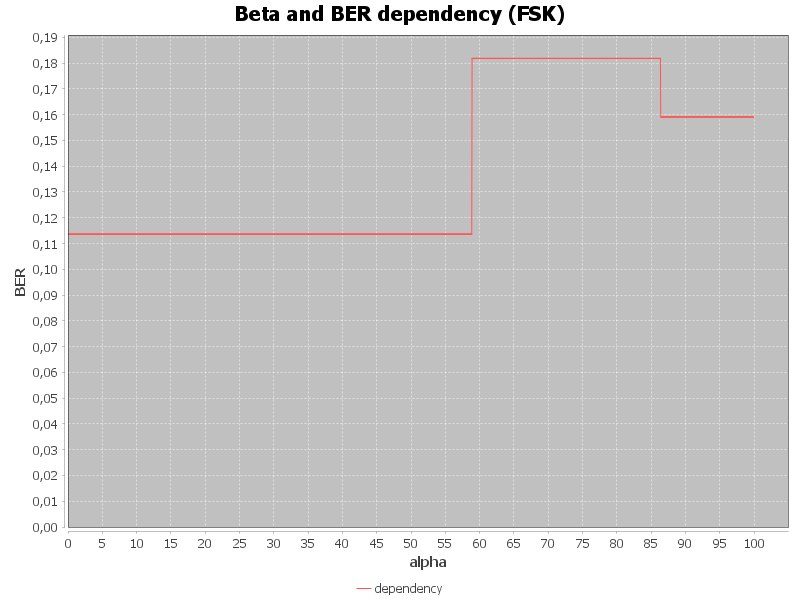
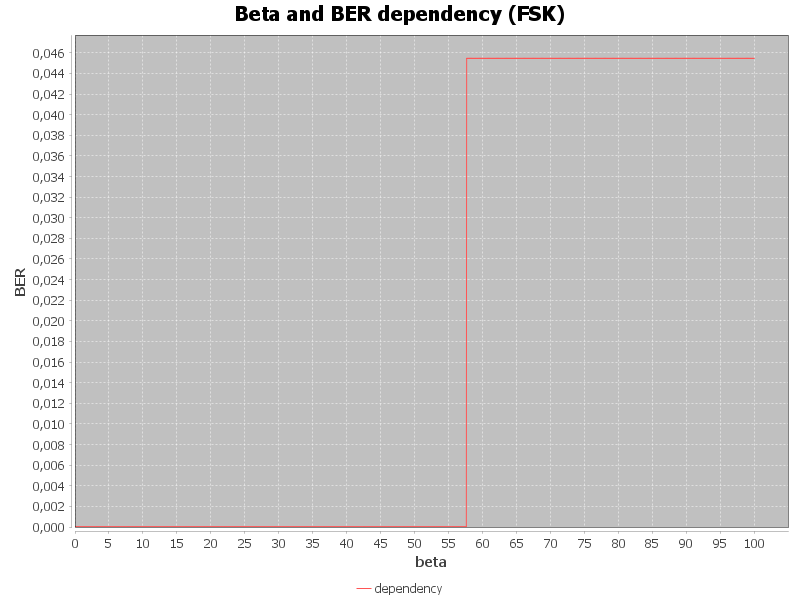
Begin exercise 4

diff --git a/src/main/java/org/example/Main.java b/src/main/java/org/example/Main.java
@@ -14,9 +14,9 @@ public class Main
     public static void main(String[] args)
     {
 //        zadanie1();
-        zadanie2();
-        zadanie3();
-//        zadanie4();
+//        zadanie2();
+//        zadanie3();
+        zadanie4();
     }
 
     public static void zadanie1()
@@ -73,9 +73,9 @@ public class Main
             }
         }
 
-        PlotDrawer.compareDoubles(alpha, BER[0], alpha.length, "Alpha and BER dependency (ASK)", "alpha_ASK");
-        PlotDrawer.compareDoubles(alpha, BER[1], alpha.length, "Alpha and BER dependency (PSK)", "alpha_PSK");
-        PlotDrawer.compareDoubles(alpha, BER[2], alpha.length, "Alpha and BER dependency (FSK)", "alpha_FSK");
+        PlotDrawer.compareDoubles(alpha, BER[0], alpha.length, "alpha", "Alpha and BER dependency (ASK)", "alpha_ASK");
+        PlotDrawer.compareDoubles(alpha, BER[1], alpha.length, "alpha", "Alpha and BER dependency (PSK)", "alpha_PSK");
+        PlotDrawer.compareDoubles(alpha, BER[2], alpha.length, "alpha", "Alpha and BER dependency (FSK)", "alpha_FSK");
     }
 
     public static void zadanie3()
@@ -93,7 +93,7 @@ public class Main
 
         double[][] BER = new double[3][beta.length];
         double[][] modulations = new double[3][];
-        double[][] noisedModulations = new double[3][];
+        double[][] dampedModulations = new double[3][];
         int[][] demodulations = new int[3][];
         int[][] decodedData = new int[3][];
 
@@ -104,20 +104,76 @@ public class Main
             for (int j = 0; j < 3; j++)
             {
                 modulations[j] = TransmissionSystem.modulate(encodedBits, modulationTypes[j]);
-                noisedModulations[j] = TransmissionSystem.addDampToSignal(modulations[j], noise);
-                demodulations[j] = TransmissionSystem.demodulate(noisedModulations[j], modulationTypes[j]);
+                dampedModulations[j] = TransmissionSystem.addDampToSignal(modulations[j], noise);
+                demodulations[j] = TransmissionSystem.demodulate(dampedModulations[j], modulationTypes[j]);
                 decodedData[j] = TransmissionSystem.decode(demodulations[j]);
                 BER[j][i] = TransmissionSystem.compareBitVectors(bits, decodedData[j]);
             }
         }
 
-        PlotDrawer.compareDoubles(beta, BER[0], beta.length, "Beta and BER dependency (ASK)", "beta_ASK");
-        PlotDrawer.compareDoubles(beta, BER[1], beta.length, "Beta and BER dependency (PSK)", "beta_PSK");
-        PlotDrawer.compareDoubles(beta, BER[2], beta.length, "Beta and BER dependency (FSK)", "beta_FSK");
+        PlotDrawer.compareDoubles(beta, BER[0], beta.length, "beta", "Beta and BER dependency (ASK)", "beta_ASK");
+        PlotDrawer.compareDoubles(beta, BER[1], beta.length, "beta", "Beta and BER dependency (PSK)", "beta_PSK");
+        PlotDrawer.compareDoubles(beta, BER[2], beta.length, "beta", "Beta and BER dependency (FSK)", "beta_FSK");
     }
 
     public static void zadanie4()
     {
+        int[] encodedBits = TransmissionSystem.encode(bits);
+
+        final String[] modulationTypes = {"ASK", "PSK", "FSK"};
+
+        double alphaStep = 0.01;
+        double[] alpha = new double[(int) Math.floor(1 / alphaStep)];
+        alpha[0] = 0;
+        for (int i = 1; i < alpha.length; i++)
+            alpha[i] = alpha[i - 1] + alphaStep;
+
+        double betaStep = 1;
+        int maxValue = 100;
+        double[] beta = new double[(int) Math.floor(maxValue / betaStep)];
+        beta[0] = 0;
+        for (int i = 1; i < beta.length; i++)
+            beta[i] = beta[i - 1] + betaStep;
+
+        double[][] BER_I_II = new double[3][alpha.length];
+        double[][] BER_II_I = new double[3][alpha.length];
+        double[][] modulations = new double[3][];
+        double[][] noisedModulations = new double[3][];
+        double[][] dampedModulations = new double[3][];
+        int[][] demodulations = new int[3][];
+        int[][] decodedData = new int[3][];
+
+        int modulationLength = (TransmissionSystem.modulate(bits, "ASK")).length;
+
+        for (int i = 0; i < alpha.length; i++)
+        {
+            double[] noise = TransmissionSystem.generateDamping(modulationLength, alpha[i]);
+            double[] damp = TransmissionSystem.generateDamping(modulationLength, beta[i]);
+            for (int j = 0; j < 3; j++)
+            {
+                modulations[j] = TransmissionSystem.modulate(encodedBits, modulationTypes[j]);
+                noisedModulations[j] = TransmissionSystem.addNoiseToSignal(modulations[j], noise);
+                dampedModulations[j] = TransmissionSystem.addDampToSignal(noisedModulations[j], damp);
+                demodulations[j] = TransmissionSystem.demodulate(dampedModulations[j], modulationTypes[j]);
+                decodedData[j] = TransmissionSystem.decode(demodulations[j]);
+                BER_I_II[j][i] = TransmissionSystem.compareBitVectors(bits, decodedData[j]);
+            }
+        }
+
+        for (int i = 0; i < alpha.length; i++)
+        {
+            double[] noise = TransmissionSystem.generateDamping(modulationLength, alpha[i]);
+            double[] damp = TransmissionSystem.generateDamping(modulationLength, beta[i]);
+            for (int j = 0; j < 3; j++)
+            {
+                modulations[j] = TransmissionSystem.modulate(encodedBits, modulationTypes[j]);
+                noisedModulations[j] = TransmissionSystem.addNoiseToSignal(modulations[j], noise);
+                dampedModulations[j] = TransmissionSystem.addDampToSignal(noisedModulations[j], damp);
+                demodulations[j] = TransmissionSystem.demodulate(dampedModulations[j], modulationTypes[j]);
+                decodedData[j] = TransmissionSystem.decode(demodulations[j]);
+                BER_II_I[j][i] = TransmissionSystem.compareBitVectors(bits, decodedData[j]);
+            }
+        }
 
     }
 
@@ -130,7 +186,6 @@ public class Main
         System.out.println();
     }
 
-    // Utils
     public static void printData(double[] data)
     {
         for(double i : data)

diff --git a/src/main/java/org/example/utils/PlotDrawer.java b/src/main/java/org/example/utils/PlotDrawer.java
@@ -49,7 +49,7 @@ public class PlotDrawer extends JFrame
         saveChartAsPNG(chart, name, width, height);
     }
 
-    public PlotDrawer(double[] data1,double[] data2, int N, String plotName, String filename)
+    public PlotDrawer(double[] data1,double[] data2, int N, String type, String plotName, String filename)
     {
         super(filename);
 
@@ -64,7 +64,7 @@ public class PlotDrawer extends JFrame
         XYSeriesCollection dataset = new XYSeriesCollection();
         dataset.addSeries(series);
 
-        JFreeChart chart = ChartFactory.createXYLineChart(plotName, "alpha", "BER", dataset);
+        JFreeChart chart = ChartFactory.createXYLineChart(plotName, type, "BER", dataset);
 
         chart.setBackgroundPaint(Color.white);
         ChartPanel chartPanel = new ChartPanel(chart);
@@ -249,8 +249,8 @@ public class PlotDrawer extends JFrame
         SwingUtilities.invokeLater(() -> new PlotDrawer(data1, data2, N, name));
     }
 
-    public static void compareDoubles(double[] data1,double[] data2, int N, String plotName, String filename)
+    public static void compareDoubles(double[] data1,double[] data2, int N, String type, String plotName, String filename)
     {
-        SwingUtilities.invokeLater(() -> new PlotDrawer(data1, data2, N, plotName, filename));
+        SwingUtilities.invokeLater(() -> new PlotDrawer(data1, data2, N, type, plotName, filename));
     }
 }
